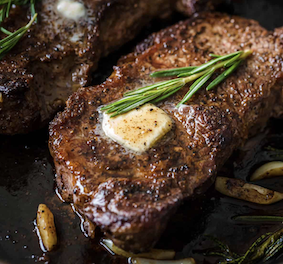
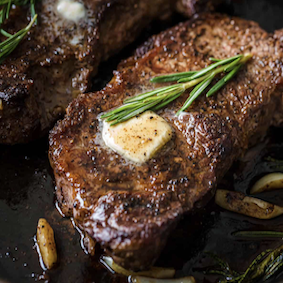
add steak image link and change some of the design
Make the edges of all recipe round and add white border around the
steak image. I also fixed the steak image so that the height and width
will be the same.

diff --git a/styles.css b/styles.css
@@ -128,46 +128,63 @@ img {
     flex: 1;
     background-color: white;
     justify-content: center;
-    margin: 30px;
+    margin: 40px;
 }
 
 .container-2 p {
     font-size: 36px;
     font-weight: bolder;
     color: #1F2937;
-    margin: 20px 0 10px 0;
+    margin: 20px;
 }
 
 .container-3 {
     display: flex;
     flex-flow: row wrap;
-    padding: 40px 20px 100px 20px;
+    padding: 0 40px 100px 40px;
     flex: 1;
     background-color: white;
+    gap: 40px;
 }
 
 .container-3 .recipe {
     display: flex;
+    flex-direction: column;
     justify-content: center;
     align-items: center;
-    flex-direction: column;
     height: 300px;
+    background-color: #1F2937;
     flex: 1;
+    border-radius: 10%;
+    /* padding: 20px; */
 }
 
 .recipe .recipe-img {
     display: flex;
-    border: 5px solid black;
     height: 200px;
     width: 200px;
     border-radius: 10%;
+    flex: 1;
 }
 
 .recipe .recipe-desc {
     display: flex;
-    flex: 1;
-    justify-content: center;
     align-items: center;
+    justify-content: center;
+    font-size: 30px;
+    font-weight: bold;
+    color: #F9FAF8;
+    flex: 1;
+}
+
+#steak .recipe-img{
+    border: 5px solid #F9FAF8;
+    padding: 0px;
+    margin-top: 30px;
+}
+
+#steak img {
+    border-radius: 10%;
 }
 
 .container-4 {

diff --git a/index.html b/index.html
@@ -40,18 +40,21 @@
             <div class="container-2"><p>Recipes</p></div>
 
             <div class="container-3">
-                <div class="recipe">
-                    <div class="recipe-img">img1</div>
-                    <div class="recipe-desc">desc1</div>
+                <div class="recipe" id="steak">
+                    <div class="recipe-img"><a href="#"><img src="./pictures/steak.png" alt="A delicious steak"></a></div>
+                    <div class="recipe-desc">Steak</div>
                 </div>
+
                 <div class="recipe">
                     <div class="recipe-img">img2</div>
                     <div class="recipe-desc">desc2</div>
                 </div>
+
                 <div class="recipe">
                     <div class="recipe-img">img3</div>
                     <div class="recipe-desc">desc3</div>
                 </div>
+
                 <div class="recipe">
                     <div class="recipe-img">img4</div>
                     <div class="recipe-desc">desc4</div>
